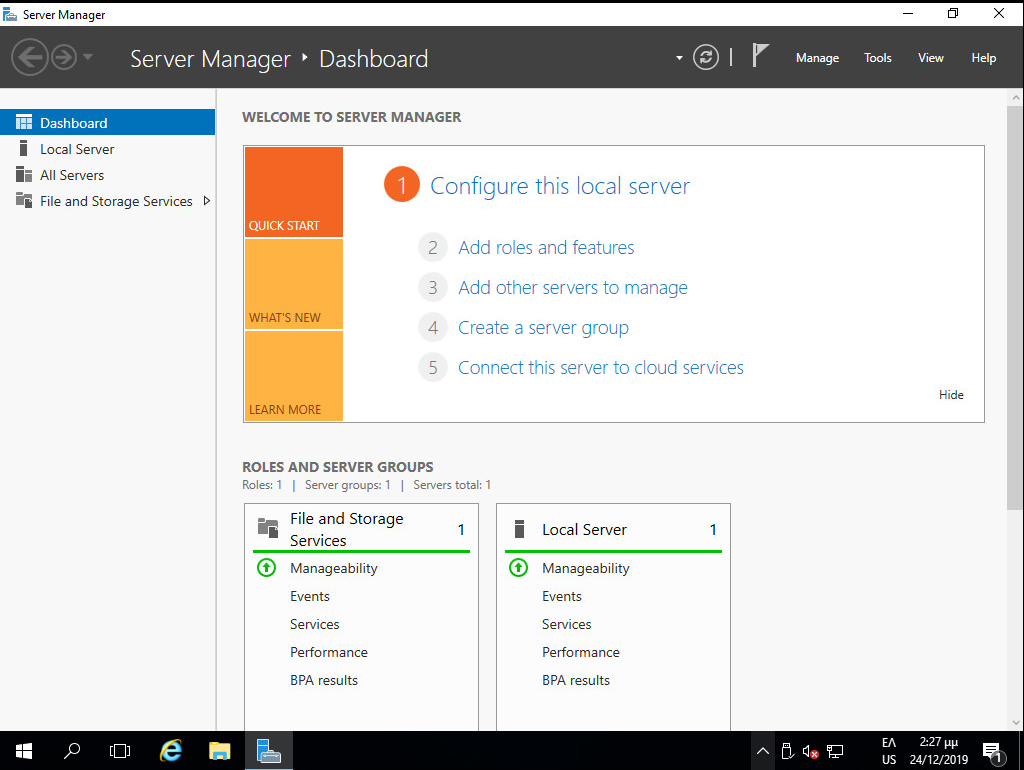
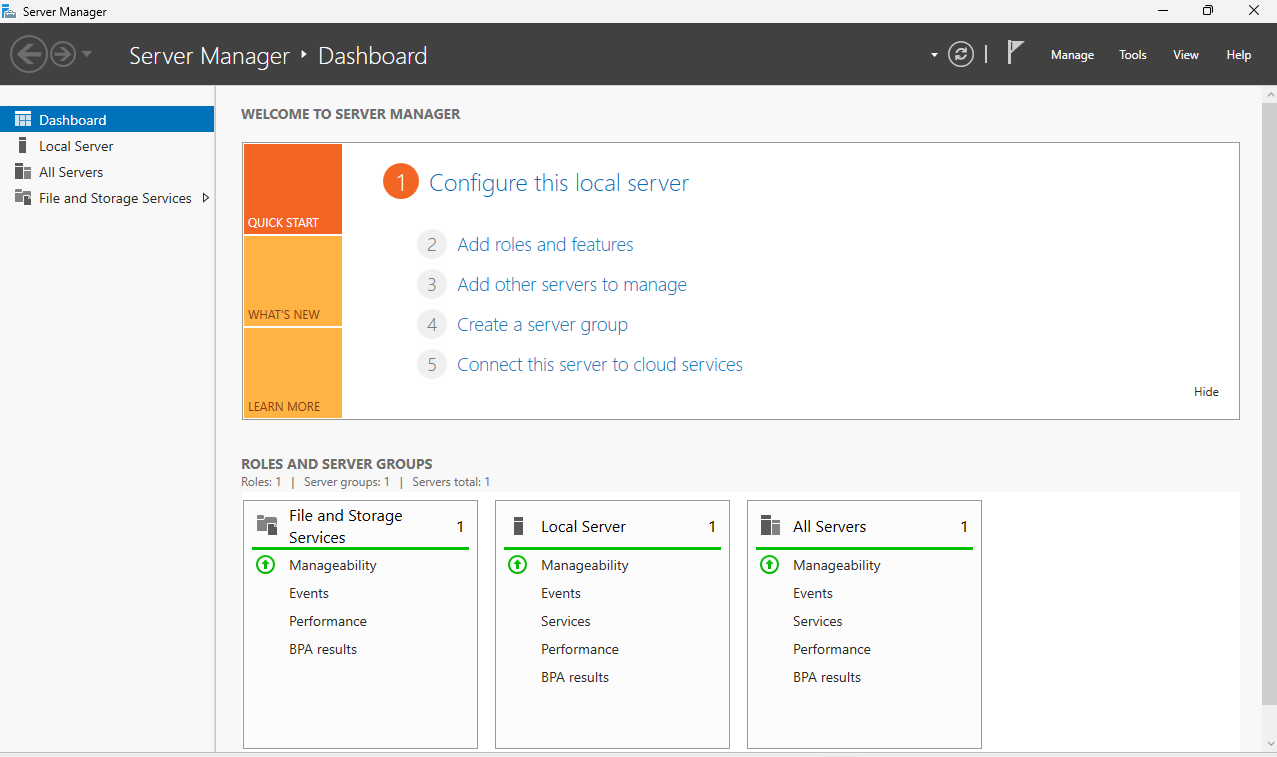
update powershell for rdsh

diff --git a/docs/server-based/server-setup-rdsh/index.md b/docs/server-based/server-setup-rdsh/index.md
@@ -42,7 +42,7 @@
 
 !!! powershell clear "PowerShell: Εγκατάσταση του ρόλου RDSH"
     ```shell
-    Add-WindowsFeature rds-rd-server
+    Install-WindowsFeature RDS-RD-Server -IncludeManagementTools -Restart
     ```
 
 !!! tip "Συμβουλή"
